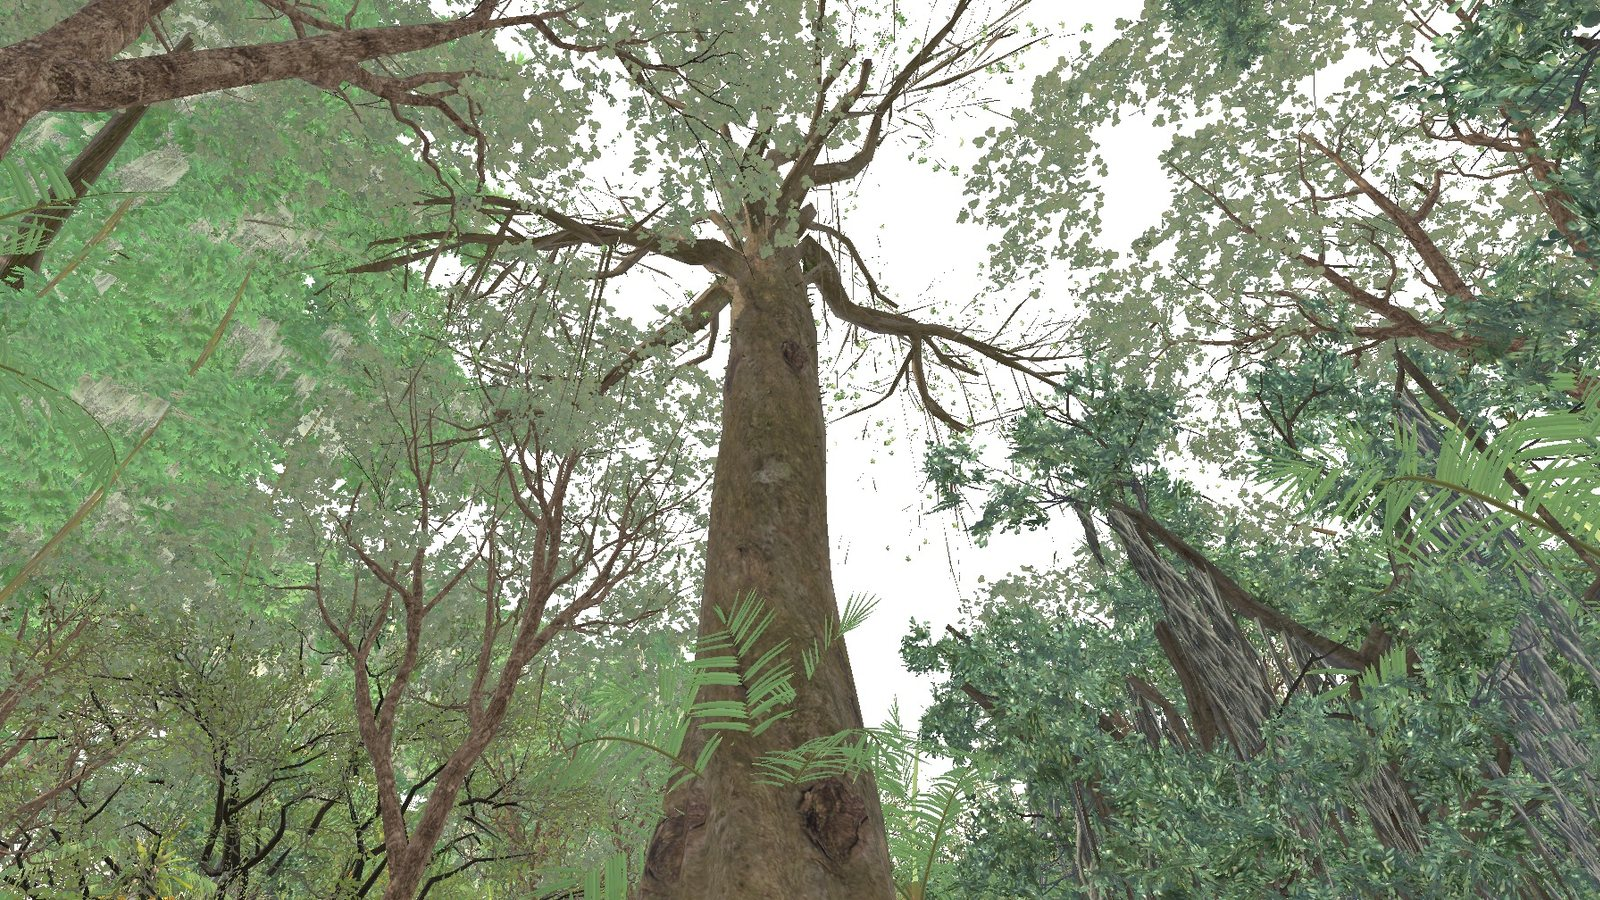
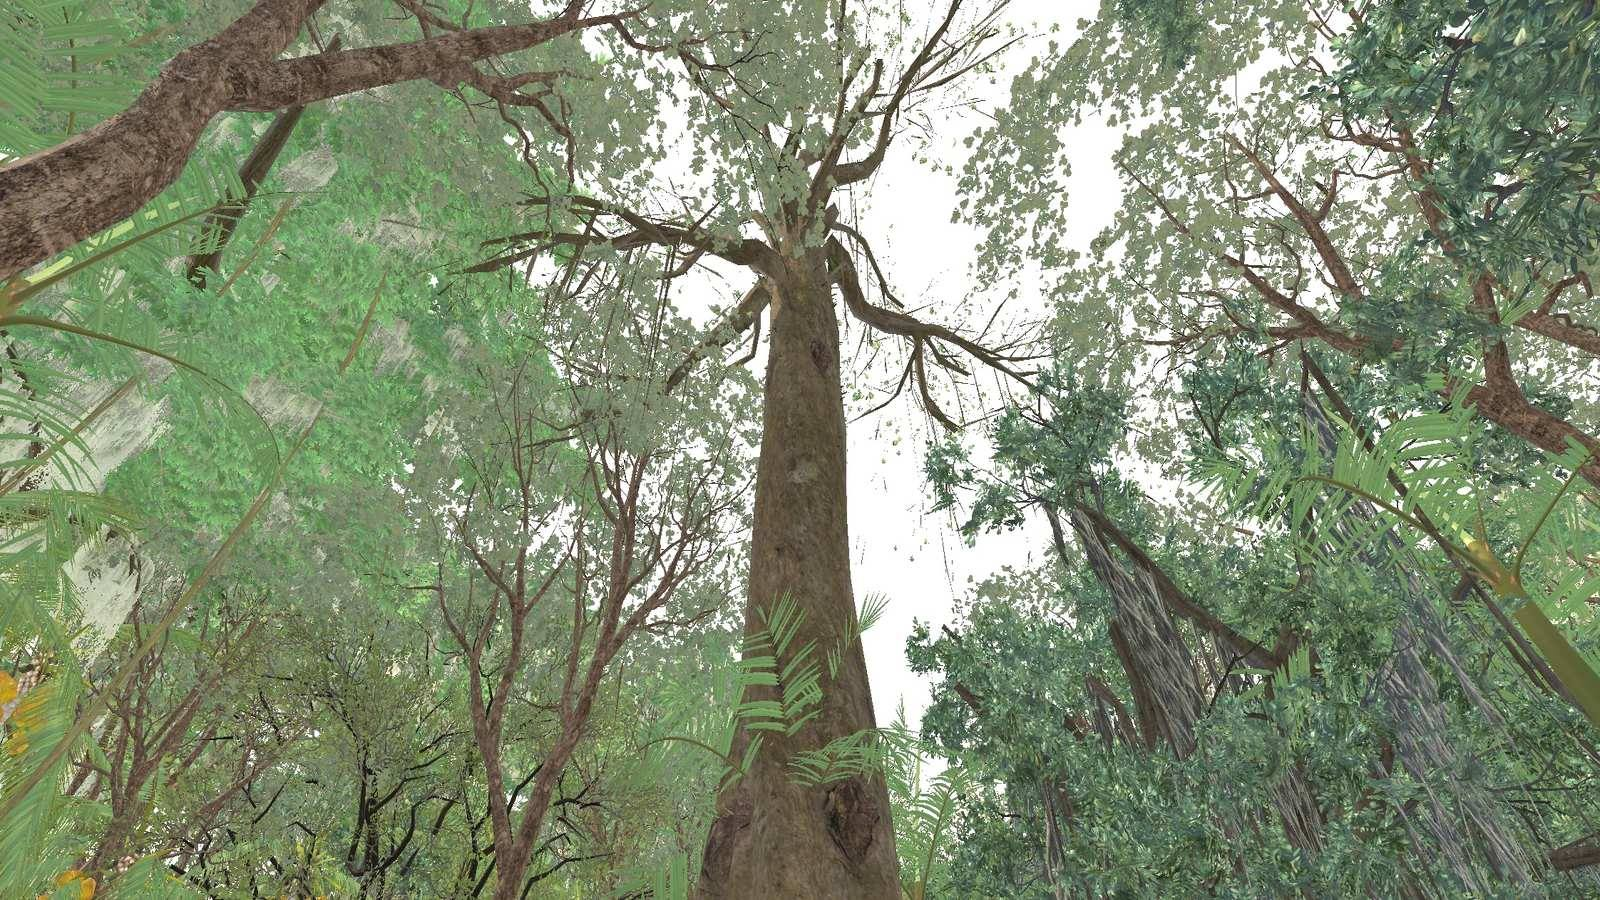
Add real in-engine screenshots

diff --git a/index.html b/index.html
@@ -92,9 +92,12 @@
 </div></div>
 </div></section>
 
+<section class="sec alt" id="video"><div class="wrap">
+<div class="sec-head"><span class="tag">Trailer</span><h2>See it in motion</h2><p>Real in-engine footage from the current build.</p></div>
+<div class="video"><iframe src="https://www.youtube-nocookie.com/embed/zdLF4iOcLnw?rel=0" title="Wild Lens trailer" loading="lazy" allow="accelerometer; autoplay; clipboard-write; encrypted-media; gyroscope; picture-in-picture; web-share" allowfullscreen referrerpolicy="strict-origin-when-cross-origin"></iframe></div></div></section>
 <section class="sec" id="screens"><div class="wrap">
 <div class="sec-head"><span class="tag">Screens</span><h2>The Kavari Basin</h2><p>Real in-engine captures from the current build of the game.</p></div>
-<div class="shots"><figure class="shot"><img src="/wild-lens-site/img/shots/site-trail-banyan.jpg" alt="Sam walks a jungle trail under a curtain of banyan aerial roots, ferns and tall trunks all around" loading="lazy" width="1600" height="900"><figcaption>On the trail</figcaption></figure><figure class="shot"><img src="/wild-lens-site/img/shots/site-ferns-giants.jpg" alt="Fern fronds in the foreground and a giant rainforest trunk beyond, in dappled light" loading="lazy" width="1600" height="900"><figcaption>Ferns and giants</figcaption></figure><figure class="shot"><img src="/wild-lens-site/img/shots/site-canopy.jpg" alt="Looking up at towering rainforest trees and their spreading branches" loading="lazy" width="1600" height="900"><figcaption>Under the canopy</figcaption></figure></div></div></section>
+<div class="shots"><figure class="shot"><img src="/wild-lens-site/img/shots/site-trail-banyan.jpg" alt="Sam walks a jungle trail under a curtain of banyan aerial roots, ferns and tall trunks all around" loading="lazy" width="1600" height="900"><figcaption>On the trail</figcaption></figure><figure class="shot"><img src="/wild-lens-site/img/shots/site-ferns-giants.jpg" alt="Fern fronds in the foreground and a giant rainforest trunk beyond, in dappled light" loading="lazy" width="1600" height="900"><figcaption>Ferns and giants</figcaption></figure><figure class="shot"><img src="/wild-lens-site/img/shots/site-canopy.jpg" alt="Looking up at towering rainforest trees and their spreading branches" loading="lazy" width="1600" height="900"><figcaption>Under the canopy</figcaption></figure><figure class="shot"><img src="/wild-lens-site/img/shots/site-ranger-station.jpg" alt="The ranger station at the edge of the Kavari Basin: a wooden hut on stilts with a jeep parked outside" loading="lazy" width="1600" height="900"><figcaption>The ranger station</figcaption></figure><figure class="shot"><img src="/wild-lens-site/img/shots/site-wallow.jpg" alt="A tapir at a muddy wallow in a jungle clearing, ferns and tall trees behind" loading="lazy" width="1600" height="900"><figcaption>The wallow</figcaption></figure><figure class="shot"><img src="/wild-lens-site/img/shots/site-camp-ridge.jpg" alt="The tented camp seen from a ridge above, a river and dense canopy beyond" loading="lazy" width="1600" height="900"><figcaption>Camp from the ridge</figcaption></figure></div></div></section>
 
 <section class="sec alt" id="faq"><div class="wrap narrow faq">
 <div class="sec-head"><span class="tag">FAQ</span><h2>Questions, answered</h2></div>

diff --git a/style.css b/style.css
@@ -70,3 +70,5 @@ nav a{color:var(--muted);text-decoration:none;font-weight:600;font-size:14px;mar
 .hero .bg.drawn:before{content:"";position:absolute;right:-120px;top:-120px;width:520px;height:520px;border-radius:50%;border:2px solid rgba(217,164,65,.22);box-shadow:0 0 0 60px rgba(217,164,65,.04),0 0 0 120px rgba(217,164,65,.025)}
 .hero .bg.drawn:after{content:"";position:absolute;right:70px;top:70px;width:140px;height:140px;border-radius:50%;background:rgba(217,164,65,.16)}
 @media(max-width:640px){.hero .bg.drawn:before{width:300px;height:300px;right:-110px;top:-90px}.hero .bg.drawn:after{width:70px;height:70px;right:20px;top:30px}}
+
+.video{position:relative;width:100%;max-width:960px;margin:0 auto;aspect-ratio:16/9;border-radius:18px;overflow:hidden;background:#000;box-shadow:0 10px 30px rgba(0,0,0,.3)}.video iframe{position:absolute;inset:0;width:100%;height:100%;border:0}
